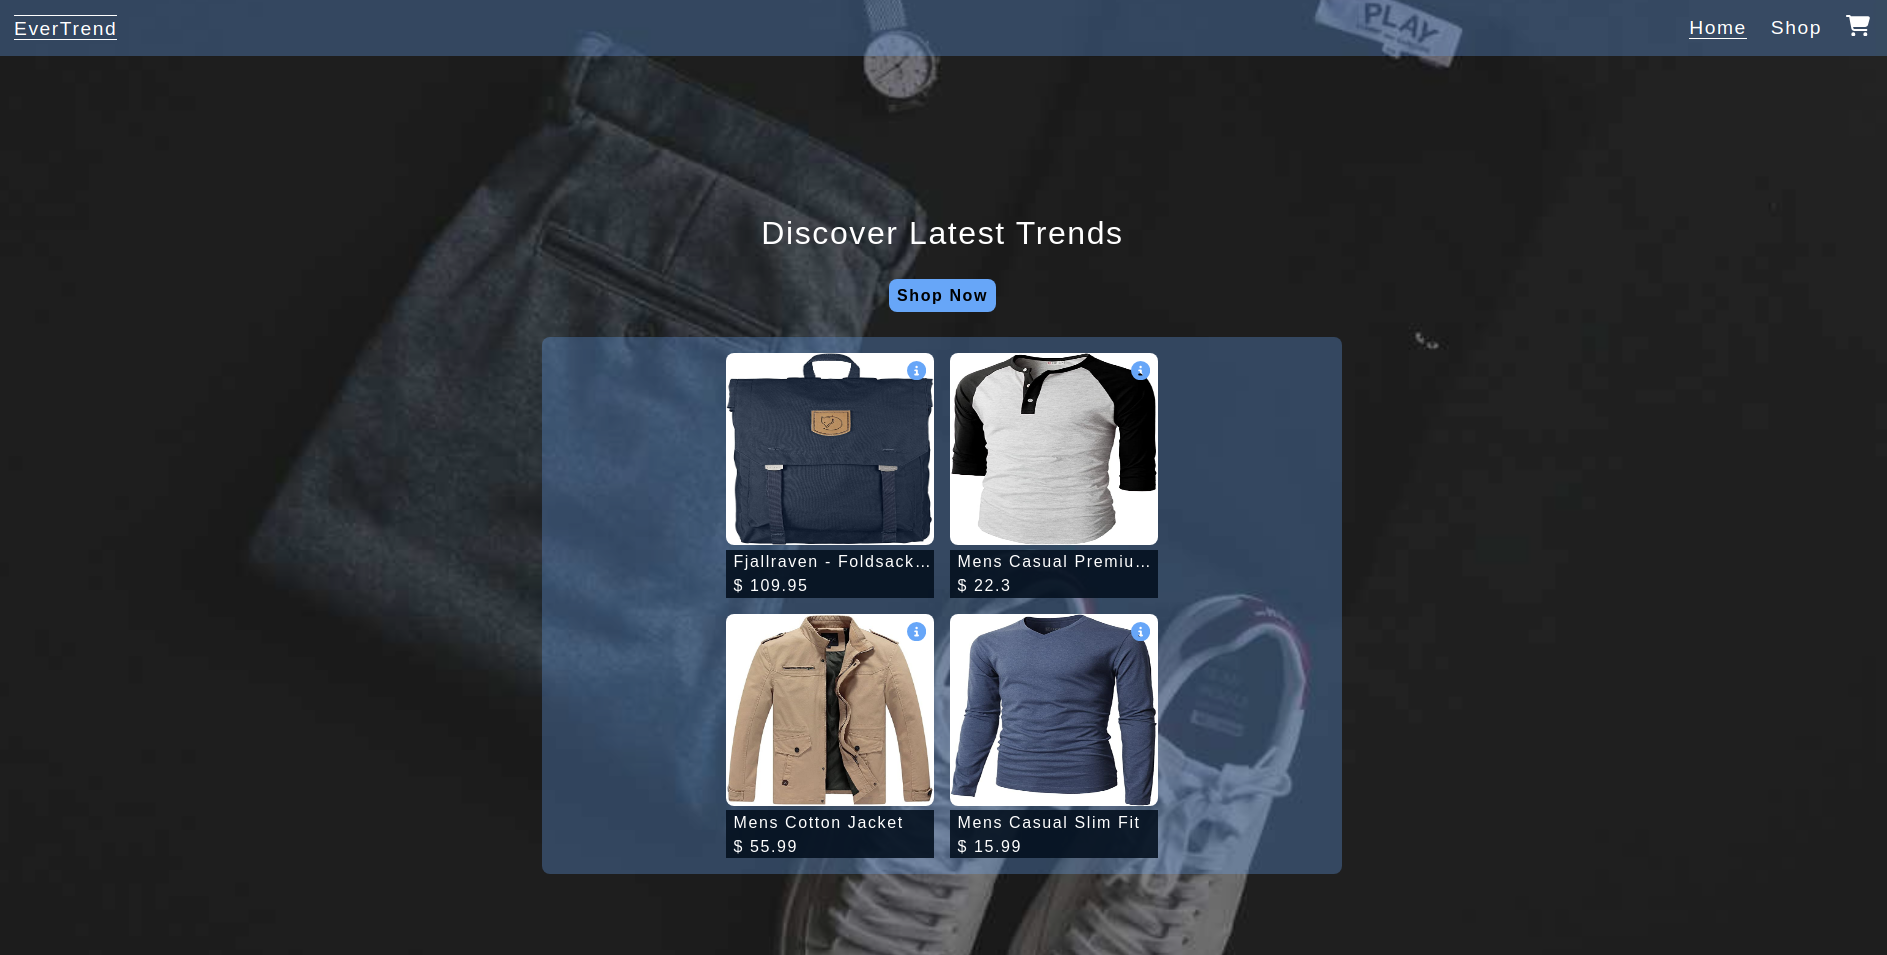
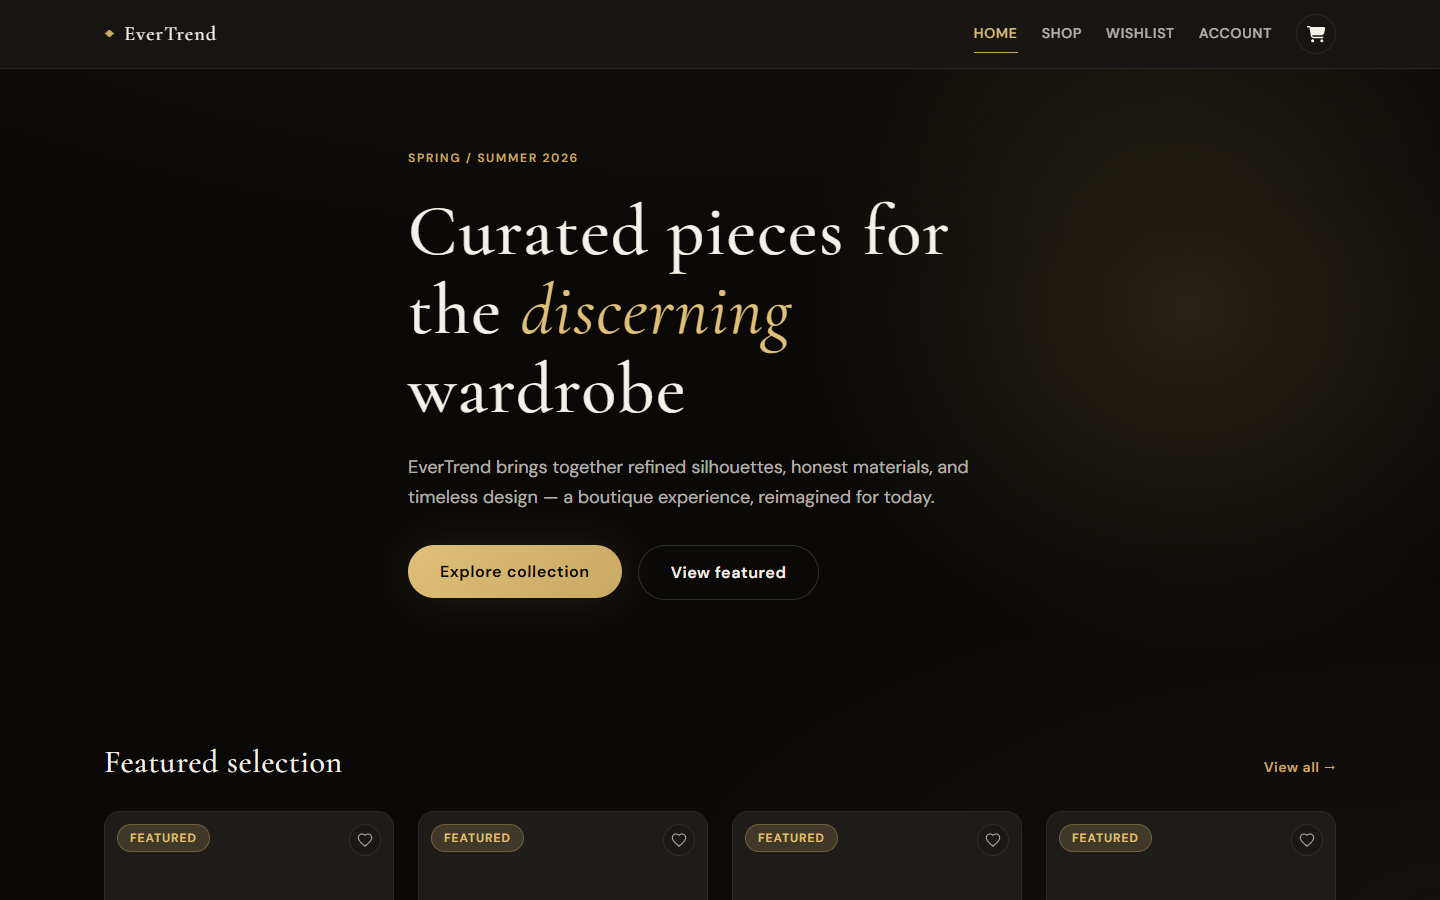
docs: refresh README and assets

diff --git a/README.md b/README.md
@@ -1,138 +1,134 @@
-<div align='center'>
+<div align="center">
 
-# Shopping Cart
+# EverTrend
+
+**A premium React ecommerce storefront with curated product discovery, cart, and checkout.**
+
+[![React](https://img.shields.io/badge/React-61DAFB?style=for-the-badge&logo=react&logoColor=black)](https://react.dev/)
+[![Vite](https://img.shields.io/badge/Vite-646CFF?style=for-the-badge&logo=vite&logoColor=white)](https://vitejs.dev/)
+[![React Router](https://img.shields.io/badge/React_Router-CA4245?style=for-the-badge&logo=react-router&logoColor=white)](https://reactrouter.com/)
+[![ESLint](https://img.shields.io/badge/ESLint-4B32C3?style=for-the-badge&logo=eslint&logoColor=white)](https://eslint.org/)
+[![Prettier](https://img.shields.io/badge/Prettier-F7B93E?style=for-the-badge&logo=prettier&logoColor=black)](https://prettier.io/)
+[![Vercel](https://img.shields.io/badge/Vercel-000000?style=for-the-badge&logo=vercel&logoColor=white)](https://vercel.com/)
+
+### [Live preview](https://shopping-cart-sage-three.vercel.app/)
 
 </div>
-<div align='center'>
-    <h3>💻 Technologies</h3>
-    <img src="https://img.shields.io/badge/Linux-FCC624?style=for-the-badge&logo=linux&logoColor=black" alt="Linux badge">
-    <img src="https://img.shields.io/badge/VS_Code-007ACC?style=for-the-badge&logo=visual-studio-code&logoColor=white" alt="VS Code badge">
-    <img src="https://img.shields.io/badge/Git-F05032?style=for-the-badge&logo=git&logoColor=white" alt="Git badge">
-    <img src="https://img.shields.io/badge/Webpack-8DD6F9?style=for-the-badge&logo=webpack&logoColor=black" alt="Webpack badge">
-    <img src="https://img.shields.io/badge/Node.js-43853D?style=for-the-badge&logo=node.js&logoColor=white" alt="Node.js badge">
-    <img src="https://img.shields.io/badge/npm-CB3837?style=for-the-badge&logo=npm&logoColor=white" alt="npm badge">
-    <img src="https://img.shields.io/badge/ESLint-4B32C3?style=for-the-badge&logo=eslint&logoColor=white" alt="ESLint badge">
-    <img src="https://img.shields.io/badge/Prettier-F7B93E?style=for-the-badge&logo=prettier&logoColor=black" alt="Prettier badge">
-    <img src="https://img.shields.io/badge/Babel-F7B93E?style=for-the-badge&logo=babel&logoColor=black" alt="Babel badge">
-    <img src="https://img.shields.io/badge/Jest-C21325?style=for-the-badge&logo=jest&logoColor=white" alt="Jest badge">
-    <img src="https://img.shields.io/badge/React-61DAFB?style=for-the-badge&logo=react&logoColor=white" alt="React badge">
-    <img src="https://img.shields.io/badge/Vite-646CFF?style=for-the-badge&logo=vite&logoColor=white" alt="Vite badge">
-    <img src="https://img.shields.io/badge/Vercel-000000?style=for-the-badge&logo=vercel&logoColor=white" alt="Vercel badge">
-    <h4><a href="https://shopping-cart-sage-three.vercel.app/">Live Preview</a></h4>
-</div>
 
-**Demo:**
+## Demo
 
-![Live Demo](./readme-assets/shop.gif)
+![EverTrend storefront demo](./readme-assets/shop.gif)
 
 <details>
+<summary>Screen views</summary>
 
-**<summary>Screen views</summary>**
+**Desktop**
 
-**Desktop View:**
+<img src="./readme-assets/desktop.png" alt="EverTrend desktop view — home hero and featured collection" width="100%">
 
-<img src="./readme-assets/desktop.png" alt="desktop view">
-<br>
+**Mobile**
 
-**Mobile View:**
-
-<img src="./readme-assets/mobile.png" alt="mobile view">
+<img src="./readme-assets/mobile.png" alt="EverTrend mobile view — shop catalog with filters" width="390">
 
 </details>
 
-## 🌐 Origin
+## Overview
 
-[The Odin Project](https://www.theodinproject.com/)
+EverTrend is a polished single-page ecommerce experience built with React. It fetches a live product catalog from the [Fake Store API](https://fakestoreapi.com/), layers in local enrichment (variants, reviews, promos), and persists cart, wishlist, and order data in the browser.
 
-## 📝 Description
+Originally created as a [The Odin Project](https://www.theodinproject.com/) learning exercise, the app has since been redesigned into a full storefront with search, filtering, product detail, multi-step checkout, and account-style order history.
 
-Builds a Shopping Cart.
+## Features
 
-<details>
-<summary>Features</summary>
+- **Storefront** — Hero landing page, featured products, and category discovery
+- **Shop** — Search, category filter, rating filter, and sortable product grid
+- **Product detail** — Image gallery, size/color variants, reviews, related products, wishlist
+- **Cart** — Quantity controls, promo codes (`WELCOME15`, `LUXE10`), shipping/tax breakdown
+- **Checkout** — Three-step flow (shipping → payment → review) with order confirmation
+- **Wishlist** — Save and revisit products (persisted locally)
+- **Account** — Order history and recently viewed products
+- **UX** — Loading skeletons, empty states, responsive layout, reduced-motion support, keyboard focus styles
 
-- No special features
+## Tech stack
 
-</details>
+| Layer | Tools |
+| --- | --- |
+| UI | React 18, CSS Modules, design tokens |
+| Routing | React Router 6 |
+| Build | Vite 5 |
+| Data | Fake Store API + cached service layer |
+| State | React Context + `useReducer` (cart, wishlist, promos) |
+| Persistence | `localStorage` |
+| Deploy | Vercel (SPA rewrites) |
 
-## 🎯 Relevance
+## Getting started
 
-To solidify concepts of `Context API, Router, Fetching Data, Styling` in React.
+### Prerequisites
 
-## 👥 Intended Audience
+- [Node.js](https://nodejs.org/) 18+
+- npm 9+
 
-Developers, users, and non-developers.
+### Install and run
 
-> [!NOTE]
-> Users can install all dependencies using `package.json` file via:
->
-> ```bash
-> npm install
-> ```
+```bash
+git clone https://github.com/asdacosta/shopping-cart.git
+cd shopping-cart
+npm install
+npm run dev
+```
 
-## 📂 Files
+Open [http://localhost:5173](http://localhost:5173).
 
-<details>
-<summary>Invert</summary>
+### Scripts
 
-| File                                 | Description                                                                                                                                                             |
-| ------------------------------------ | ----------------------------------------------------------------------------------------------------------------------------------------------------------------------- |
-| `src/*`                              | Source files that are bundled into the output directory `dist/`.                                                                                                        |
-| `src/main.jsx`                       | The main JavaScript entry point that bundling begins.                                                                                                                   |
-| `src/App.jsx`                        | Main component where overall structure and other layout components of the app are contained.                                                                            |
-| `src/assets/*`                       | All assets(imgs, icons, vids) used in website.                                                                                                                          |
-| `src/components/Cart.jsx`            | Displays Cart.                                                                                                                                                          |
-| `src/components/CartItem.jsx`        | Creates added cart items in `Cart.jsx`.                                                                                                                                 |
-| `src/components/ErrorPage.jsx`       | Display error if anything goes wrong.                                                                                                                                   |
-| `src/components/ids.jsx`             | Generate unique strings for arrays in `map`.                                                                                                                            |
-| `src/components/Item.jsx`            | Creates shop items.                                                                                                                                                     |
-| `src/components/ItemHome.jsx`        | Displays shop item details.                                                                                                                                             |
-| `src/components/Nav.jsx`             | Display navigation.                                                                                                                                                     |
-| `src/components/HomePage.jsx`        | Main home page.                                                                                                                                                         |
-| `src/components/routes.jsx`          | Creates routes in `HomePage.jsx`.                                                                                                                                       |
-| `src/components/ShopPage.jsx`        | Main shop page.                                                                                                                                                         |
-| `src/components/WelcomePage.jsx`     | Displays buyable items at `HomePage.jsx`.                                                                                                                               |
-| `src/stylesheet/App.css`             | Stylesheet for `App.jsx`.                                                                                                                                               |
-| `src/stylesheet/Cart.module.css`     | Stylesheet for `Cart.jsx` and `CartItem.jsx`.                                                                                                                           |
-| `src/stylesheet/HomePage.module.css` | Stylesheet for `HomePage.jsx`.                                                                                                                                          |
-| `src/stylesheet/Item.module.css`     | Stylesheet for `Item.jsx`.                                                                                                                                              |
-| `src/stylesheet/ItemHome.module.css` | Stylesheet for `ItemHome.jsx`.                                                                                                                                          |
-| `src/stylesheet/Nav.module.css`      | Stylesheet for `Nav.jsx`.                                                                                                                                               |
-| `src/stylesheet/ShopPage.module.css` | Stylesheet for `ShopPage.jsx`.                                                                                                                                          |
-| `src/stylesheet/reset.css`           | ets style to default for consistency across different devices and browsers..                                                                                            |
-| `dist/*`                             | Output files from bundling of files in directory `src/`.                                                                                                                |
-| `dist/main.js`                       | Main JavaScript output file that contains the bundled JavaScript code. Code is minified and optimized for deployment (Due to mode set to production in webpack config). |
-| `package*`                           | Contains details of project and dependencies versions.                                                                                                                  |
-| `readme-assets/*`                    | Live demo and different screen views used in `README.md`.                                                                                                               |
+| Command | Description |
+| --- | --- |
+| `npm run dev` | Start Vite dev server |
+| `npm run build` | Production build to `dist/` |
+| `npm run preview` | Serve the production build locally |
+| `npm run lint` | Run ESLint |
 
-</details>
+## Project structure
 
-## © Credit
+```text
+src/
+├── components/
+│   ├── cart/          # Cart line items, order summary
+│   ├── layout/        # Nav, footer, page shell
+│   ├── product/       # Cards, grid, filters, reviews
+│   └── ui/            # Buttons, spinners, ratings, etc.
+├── context/           # ShopProvider + cart reducer
+├── data/              # Product enrichment (variants, reviews, promos)
+├── hooks/             # useProducts, useCartTotals
+├── pages/             # Route-level screens
+├── services/          # productApi (fetch + cache)
+├── stylesheets/       # tokens, global, reset
+└── utils/             # Filter/sort helpers
+```
 
-<details>
-<summary>Invert</summary>
+## Deployment
 
-| File             | Description                                                |
-| ---------------- | ---------------------------------------------------------- |
-| `src/assets/###` | Photo created by Mnz on [Unsplash](https://unsplash.com/). |
+The app is configured for Vercel with SPA fallback (`vercel.json` rewrites all routes to `index.html`). After `npm run build`, deploy the `dist/` output or connect the repo to Vercel for automatic builds.
 
-</details>
+## Regenerating README media
 
-## 🔄 Improvements
+With the preview server running (`npm run preview`), capture fresh screenshots and demo GIF:
 
-<details>
-<summary>Invert</summary>
+```bash
+# One-time: npm install -D playwright gifenc pngjs && npx playwright install chromium
+node scripts/capture-readme-assets.mjs
+```
 
-- [ ] Items in Cart should link to item home.
-- [ ] Separate fetching into a solitary file.
-- [ ] Refactor functionalities into a solitary class component.
-- [ ] Run tests
-- [ ] Replace quantity with input to enable user manually type quantity of items apart from incrementing and decrementing.
+Assets are written to `readme-assets/` (`shop.gif`, `desktop.png`, `mobile.png`).
 
-</details>
+## Roadmap
 
-## 👤 Curator
+- [ ] Add automated tests (unit + e2e)
+- [ ] Cart line items linking directly to product pages
+- [ ] Manual quantity input on product and cart screens
 
-1. [Abraham Da Costa Silvanus](https://github.com/asdacosta)
+## Author
 
-**[🞁 Top](#shopping-cart)**
+[Abraham Da Costa Silvanus](https://github.com/asdacosta)
+
+**[↑ Back to top](#evertrend)**
